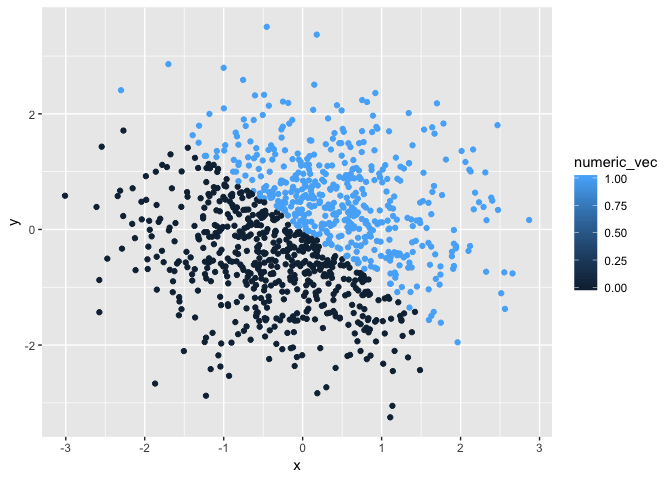
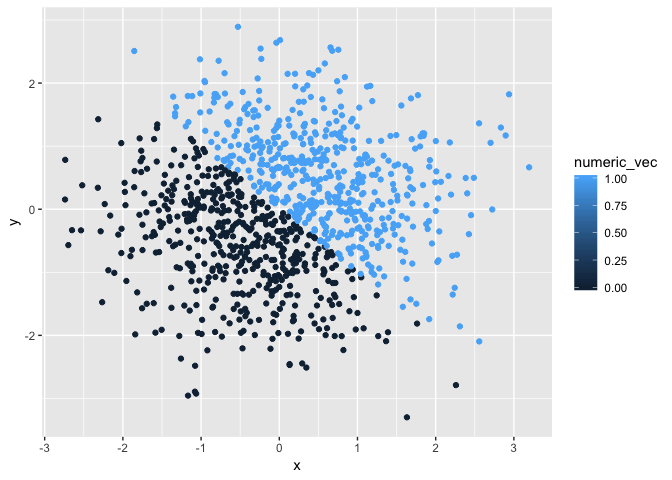
adjust to structure and add comments on scatter plots

diff --git a/p8105_hw1_xz2788.md b/p8105_hw1_xz2788.md
@@ -23,6 +23,9 @@ Section 1
 
 This section displays the answer to problem 1
 
+Taking the mean
+---------------
+
 Here is a **code chunk** that creats a dataframe
 
 ``` r
@@ -40,13 +43,13 @@ take the mean of each variable in the dataframe
 mean(hw1_df_1$numeric_vec)
 ```
 
-    ## [1] 2.261152
+    ## [1] 2.54864
 
 ``` r
 mean(hw1_df_1$logic_vec)
 ```
 
-    ## [1] 0.6
+    ## [1] 0.7
 
 ``` r
 mean(hw1_df_1$char_vec)
@@ -66,7 +69,7 @@ mean(hw1_df_1$factor_vec)
 
     ## [1] NA
 
-Results of taking the mean of each variable:
+### Results of taking the mean of each variable:
 
 We can take the mean of a random sample from uniform distribution and a logical vector, but it didn't work with a character vector and a factor vector.
 
@@ -82,6 +85,9 @@ For a character vector, each element in the vector is a string of one or more ch
 
 Factors in R are stored as a vector of integer values with a corresponding set of character values to use when the factor is displayed. Factor's levels are always in character values and R can't take the mean of characters.
 
+Converting vectors
+------------------
+
 Here is a **code chunk** that applies the as.numeric function:
 
 ``` r
@@ -91,7 +97,7 @@ as.numeric(hw1_df_1$char_vec)
 as.numeric(hw1_df_1$factor_vec)
 ```
 
-What happens?
+### What happens?
 
 The character vector was presented with NAs. The logical vector displays "1" for TRUE and "0" for FALSE. The factor vector was presented with corresponding value of levels.
 
@@ -115,7 +121,7 @@ as.numeric(factor_to_char)
 
     ##  [1] NA NA NA NA NA NA NA NA NA NA
 
-What happens through converting?
+### What happens through converting?
 
 All the elements in character vector is converted to numerical variables with value of "1" and the factor vector is converted to a numerical vector with NAs. Because the character is considered as only a character instead of numbers in R and the factors can convert to numerical according to its corresponding levels.
 
@@ -136,11 +142,12 @@ hw1_df_2 = tibble(
 
 The size of the dataset is 1000, 5 or 1000 \* 5
 
-The mean of x is 0.0131851 and the median of x is 0.0165958
+The mean of x is 0.0367543 and the median of x is 0.0313368
 
-The proportion of cases for which the logical vector is TRUE is 0.465
+The proportion of cases for which the logical vector is TRUE is 0.514
 
 Making scatterplots:
+--------------------
 
 ``` r
 ggplot(hw1_df_2, aes(x = x, y = y, color = logic_vec)) + geom_point()
@@ -160,3 +167,8 @@ ggplot(hw1_df_2, aes(x = x, y = y, color = factor_vec)) + geom_point()
 ```
 
 ![](p8105_hw1_xz2788_files/figure-markdown_github/scatterplots-3.png)
+
+Comments on color scale:
+------------------------
+
+For all these three scatter plots, the two different color points are even distributed in the plots. All the false elements or numeric vector with value of zero are presented at the lower left corner and the others are displayed at the upper right corner.
